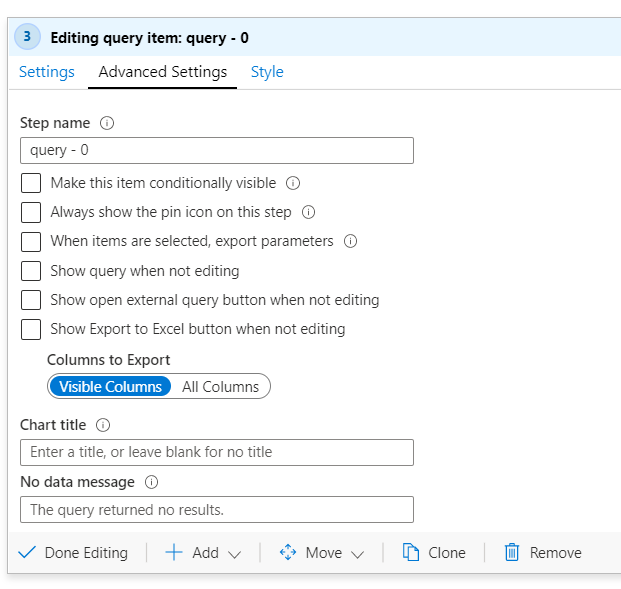
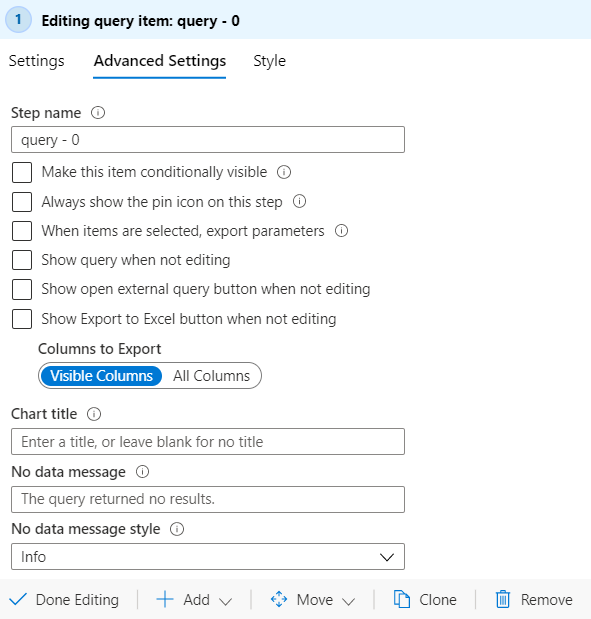
Doc and schema change for "No data message style"

Changed region(s): [[0.0, 0.0, 0.9746, 1.0]]

diff --git a/Documentation/ViewDesigner/CommonSteps.md b/Documentation/ViewDesigner/CommonSteps.md
@@ -123,6 +123,8 @@ To add a pin and a link to an external query simply select the corresponding che
 
 To add a title to your cell, simply type the desired title into the **Chart title** section.
 
+When the query succeeded but returned no results, the default message displayed is "The query returned no results". To show a custom message, edit **No data message** field. The default style for this message is "Info". Select a style from dropdown **No data message style** to set custom style to the message.
+
 By default any Workbooks cell is set to take up the entire page width, but users can adjust this by scaling the cell down, by clicking under the **Style** tab in edit mode.
 
 ![Advanced Settings Style](./Examples/AdvSetStyle.png)
